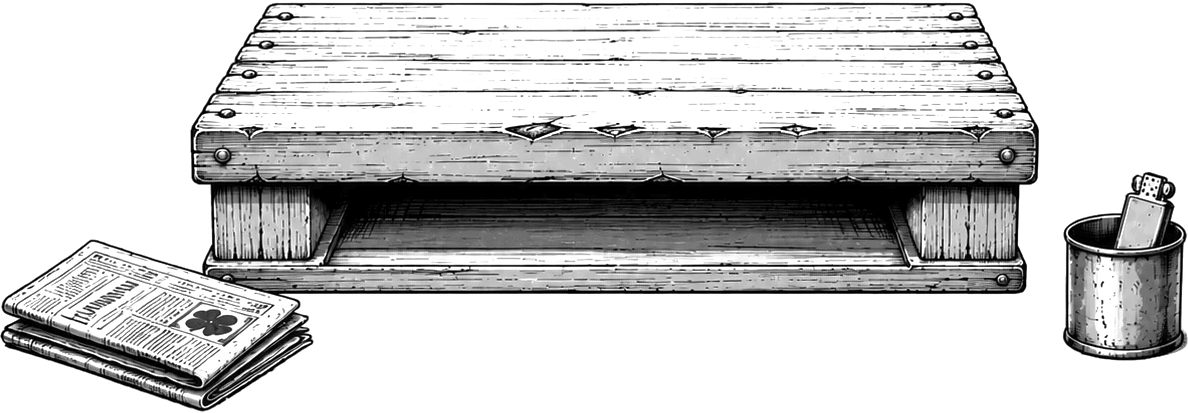
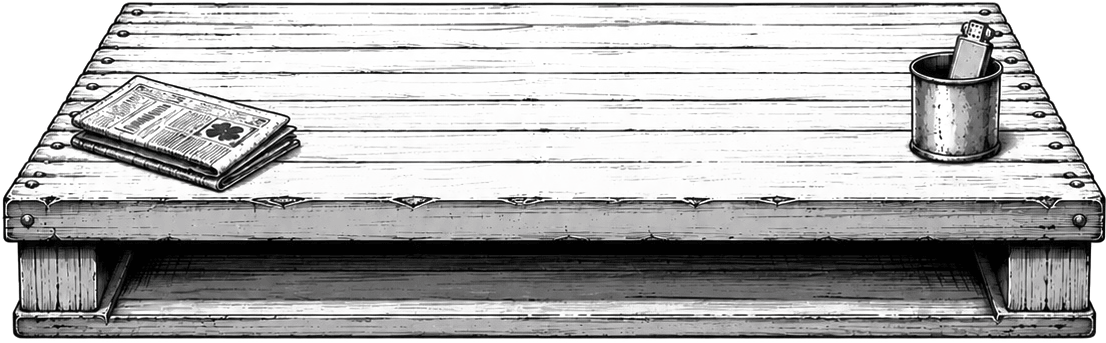
Table aise : descend (#92)
* Table aise : bottom -46% -> -54% (descend)

https://claude.ai/code/session_01K5SJ7eQcxdTnekDPP3umYe

* Table riche : bottom -64% -> -55% (remonte)

https://claude.ai/code/session_01K5SJ7eQcxdTnekDPP3umYe

* Survie (level_1) : nouvelle image palette centree + retire decalage left

https://claude.ai/code/session_01K5SJ7eQcxdTnekDPP3umYe

---------

diff --git a/src/LastCoin.tsx b/src/LastCoin.tsx
@@ -1587,16 +1587,16 @@ const CSS = `
 .lc-table-fade{position:absolute;left:-50%;right:-50%;width:200%;bottom:-78%;height:75%;background:linear-gradient(to bottom,rgba(250,250,250,0) 0%,#fafafa 18%,#fafafa 100%);pointer-events:none;}
 /* A la rue (carton garage) : un poil plus grande */
 .lc-table.t0{bottom:-12%;width:148%;}
-/* Survie : remonte un peu + decale a gauche */
-.lc-table.t1{bottom:-38%;left:44%;}
+/* Survie : palette neuve centree */
+.lc-table.t1{bottom:-38%;}
 /* Precaire : remonte un poil */
 .lc-table.t2{bottom:-35%;width:148%;}
 /* Classe moyenne : descend + plus grande */
 .lc-table.t3{bottom:-54%;width:174%;}
 /* Aise : encore plus grande */
-.lc-table.t4{bottom:-46%;width:190%;}
+.lc-table.t4{bottom:-54%;width:190%;}
 /* Riche : descend encore */
-.lc-table.t5{bottom:-64%;width:174%;}
+.lc-table.t5{bottom:-55%;width:174%;}
 /* Grande fortune : plus grande + remonte un peu */
 .lc-table.t6{bottom:-33%;width:174%;}
 /* Empire : plus grande + descend */